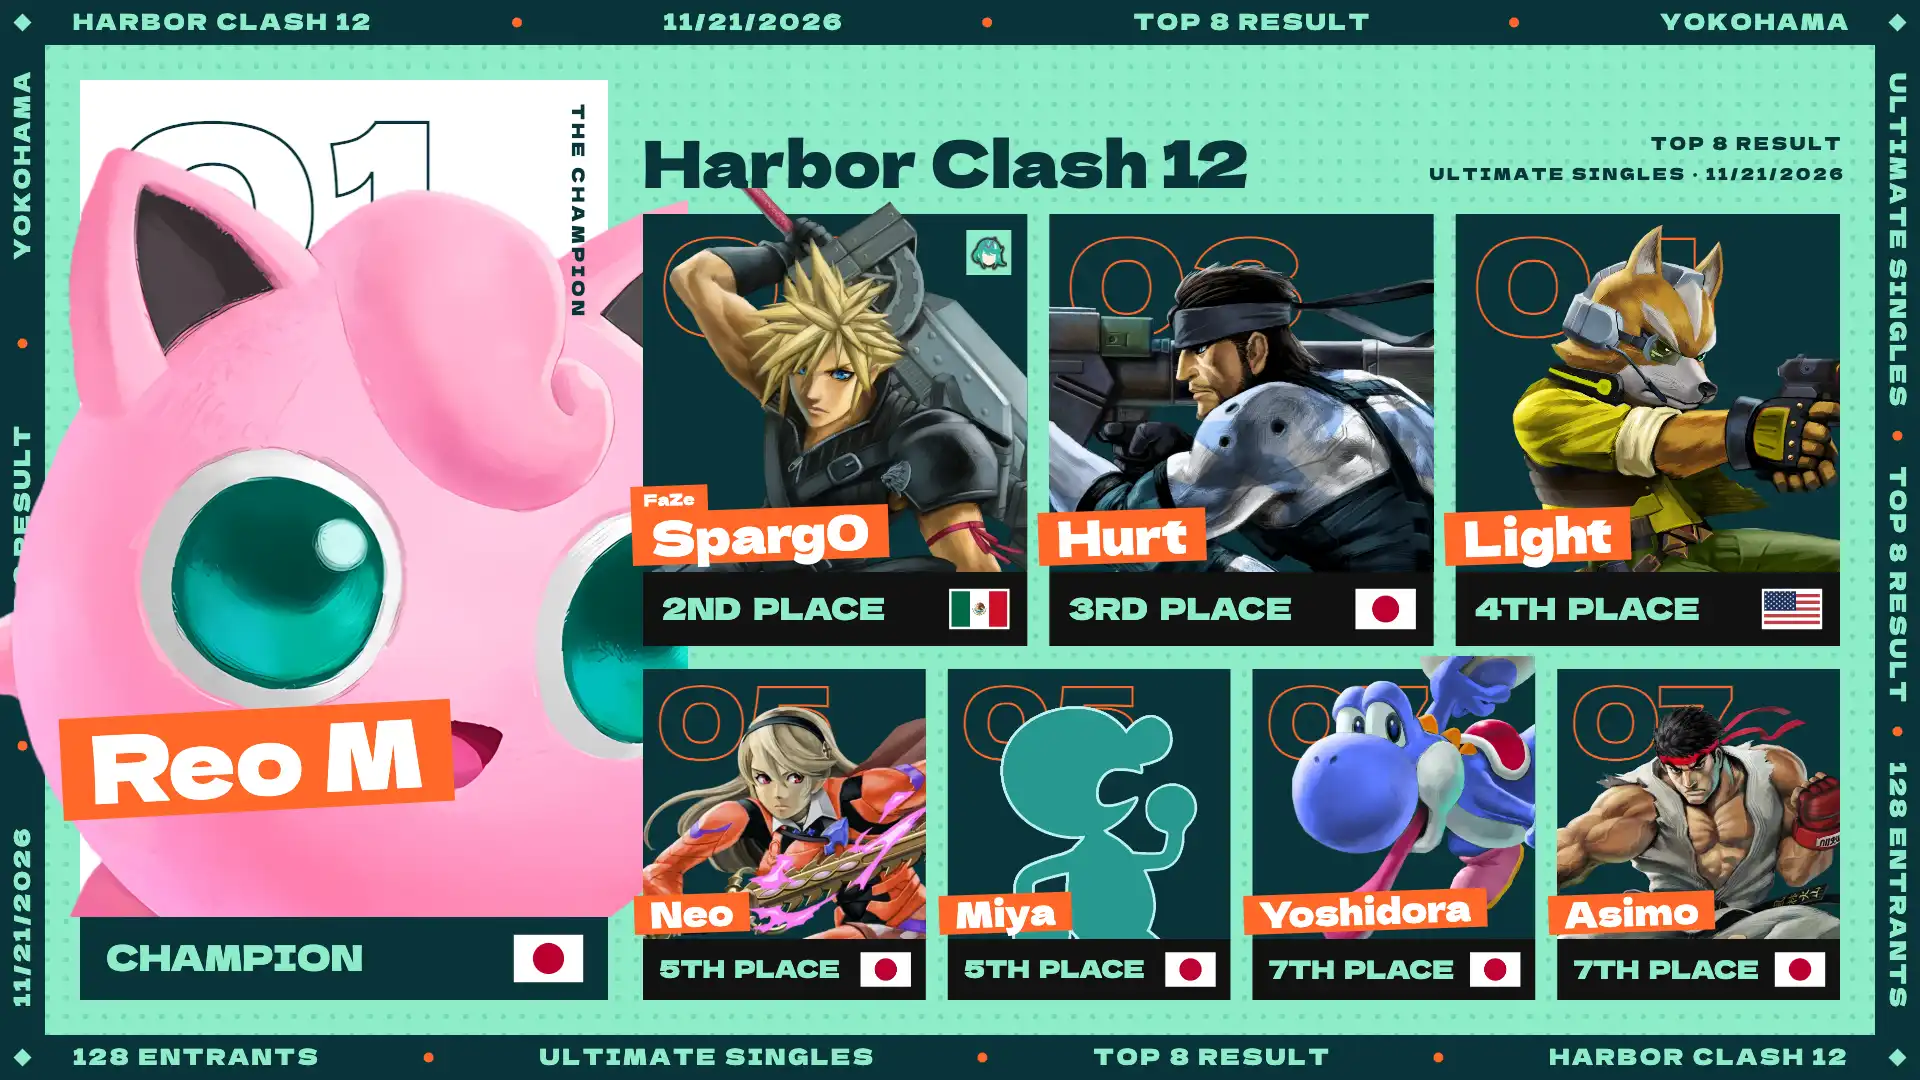
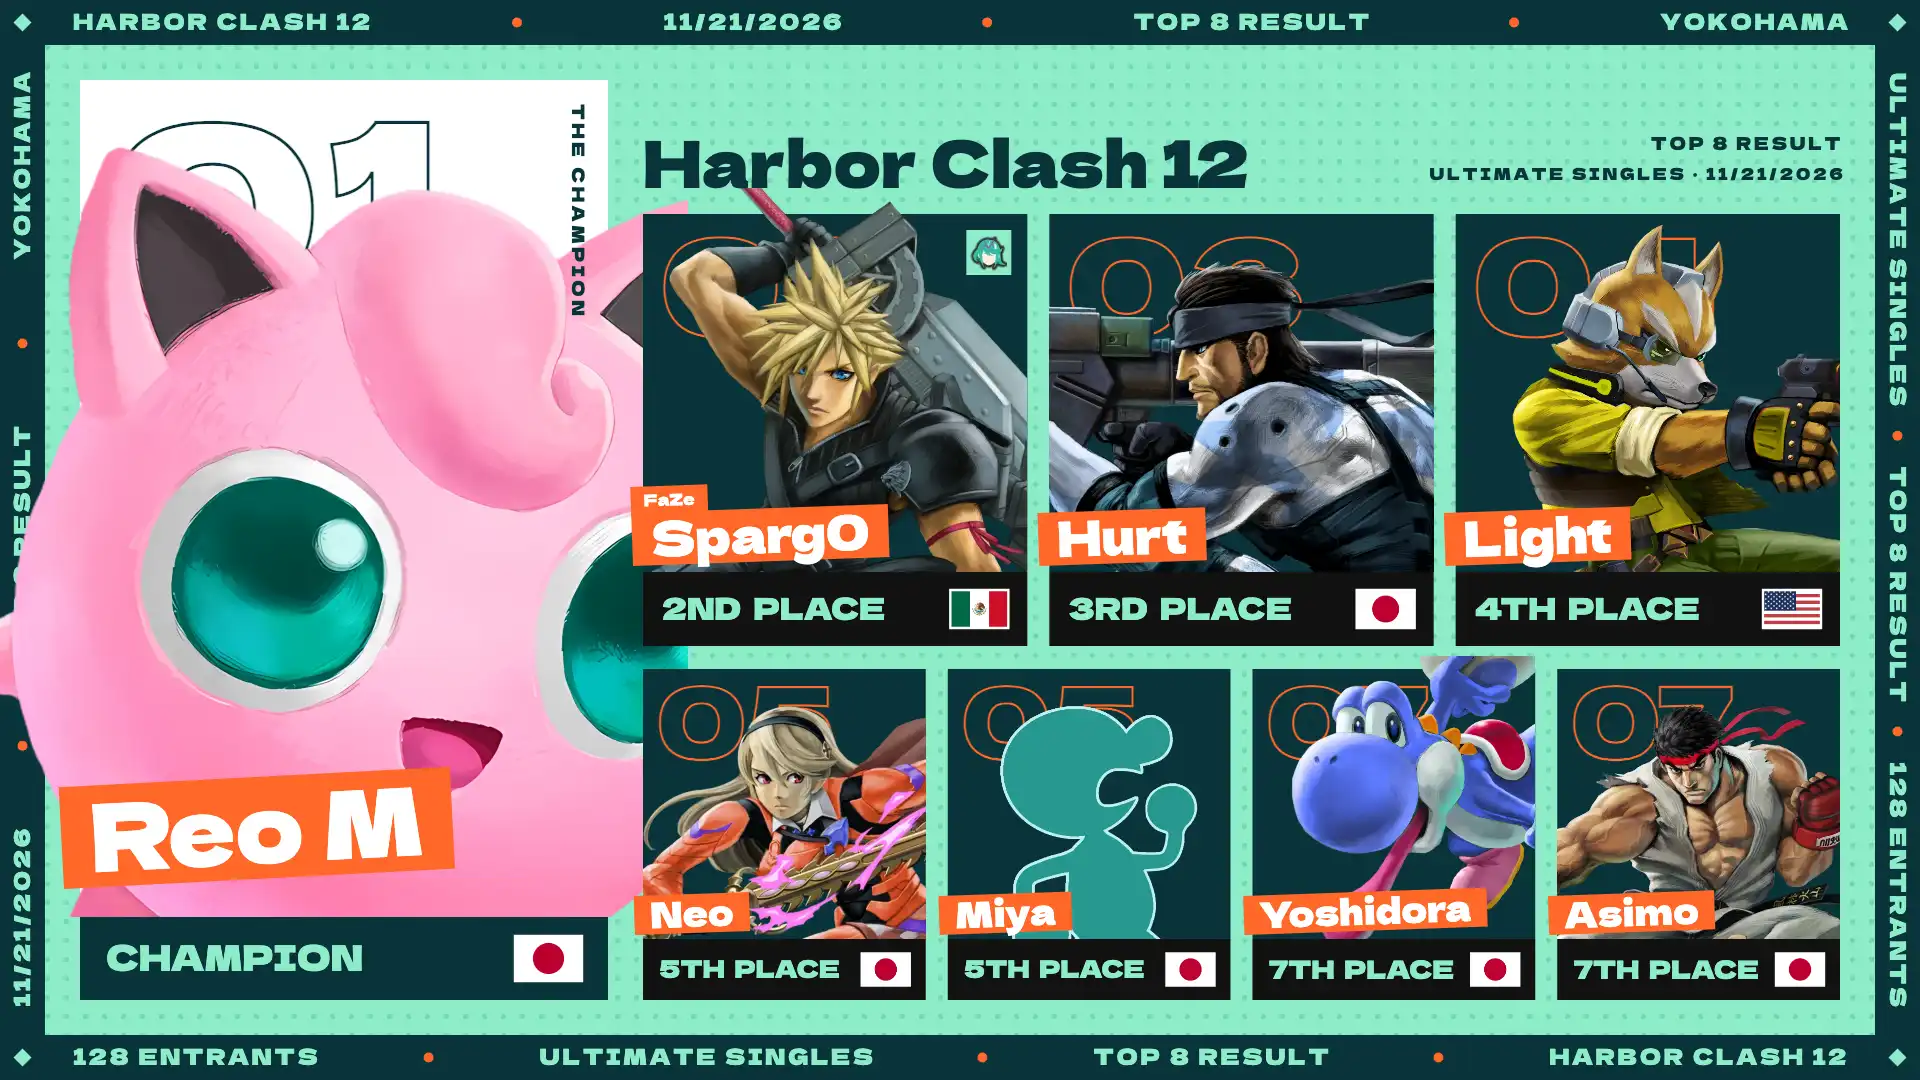
lower the winner's name tape on the tape template and make name tapes hug text cut with an ellipsis

Changed region(s): [[0.0312, 0.6417, 0.25, 0.825]]

diff --git a/src/utils/top8/textMetrics.ts b/src/utils/top8/textMetrics.ts
@@ -282,13 +282,26 @@ const computeFit = ({
   const measuredWidth = measure();
   const truncated =
     shrink && minFontSize !== undefined && !!width && measuredWidth > width;
-  const textWidth = width ? Math.min(measuredWidth, width) : measuredWidth;
 
   // Now give it the real box to read the laid-out size (text that still
   // overflows at the minimum size wraps and gets taller, unless it is cut).
   node.setAttrs(
-    defined({ width, height, wrap: shrink && !truncated ? "word" : "none" }),
+    defined({
+      width,
+      height,
+      wrap: shrink && !truncated ? "word" : "none",
+      ellipsis: truncated,
+    }),
   );
+  // Konva makes room for the ellipsis by dropping three characters, so cut
+  // text ends well short of the box's edge: report the line it draws, so a
+  // background behind it hugs the ellipsis. (`getTextWidth` is the width
+  // before the cut.)
+  const textWidth = truncated
+    ? (node.textArr[0]?.width ?? width)
+    : width
+      ? Math.min(measuredWidth, width)
+      : measuredWidth;
   const { offsetX, offsetY } = anchorOffsets(
     anchor,
     node.width(),

diff --git a/src/designs/tape.ts b/src/designs/tape.ts
@@ -140,7 +140,7 @@ const CARD_STYLE = {
     tabPad: { x: 29, top: 0, bottom: 9 },
     prefixPad: { x: 19, top: 8, bottom: 8 },
     tabLeft: -16,
-    tabLift: 96,
+    tabLift: 28,
     tabOverhang: 22,
     tilt: -3,
     stripText: 35,
